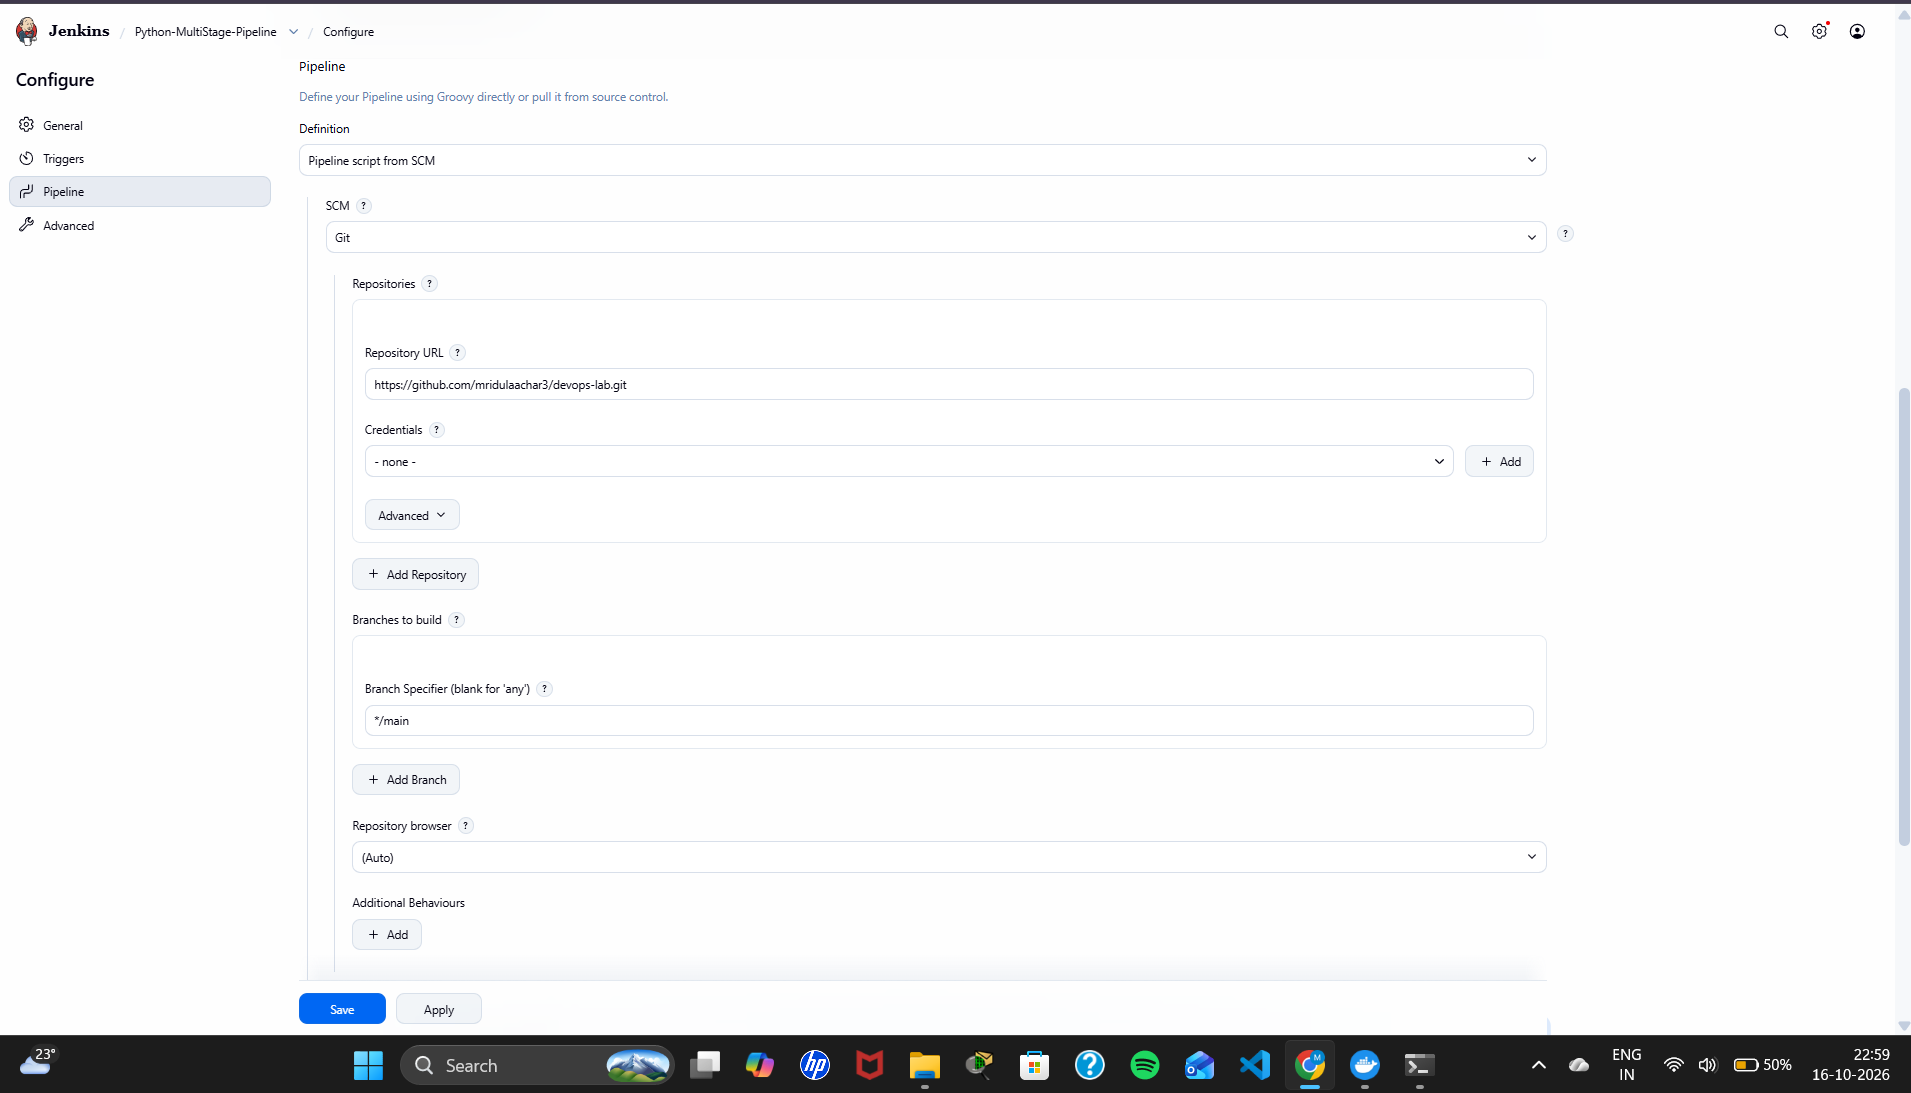
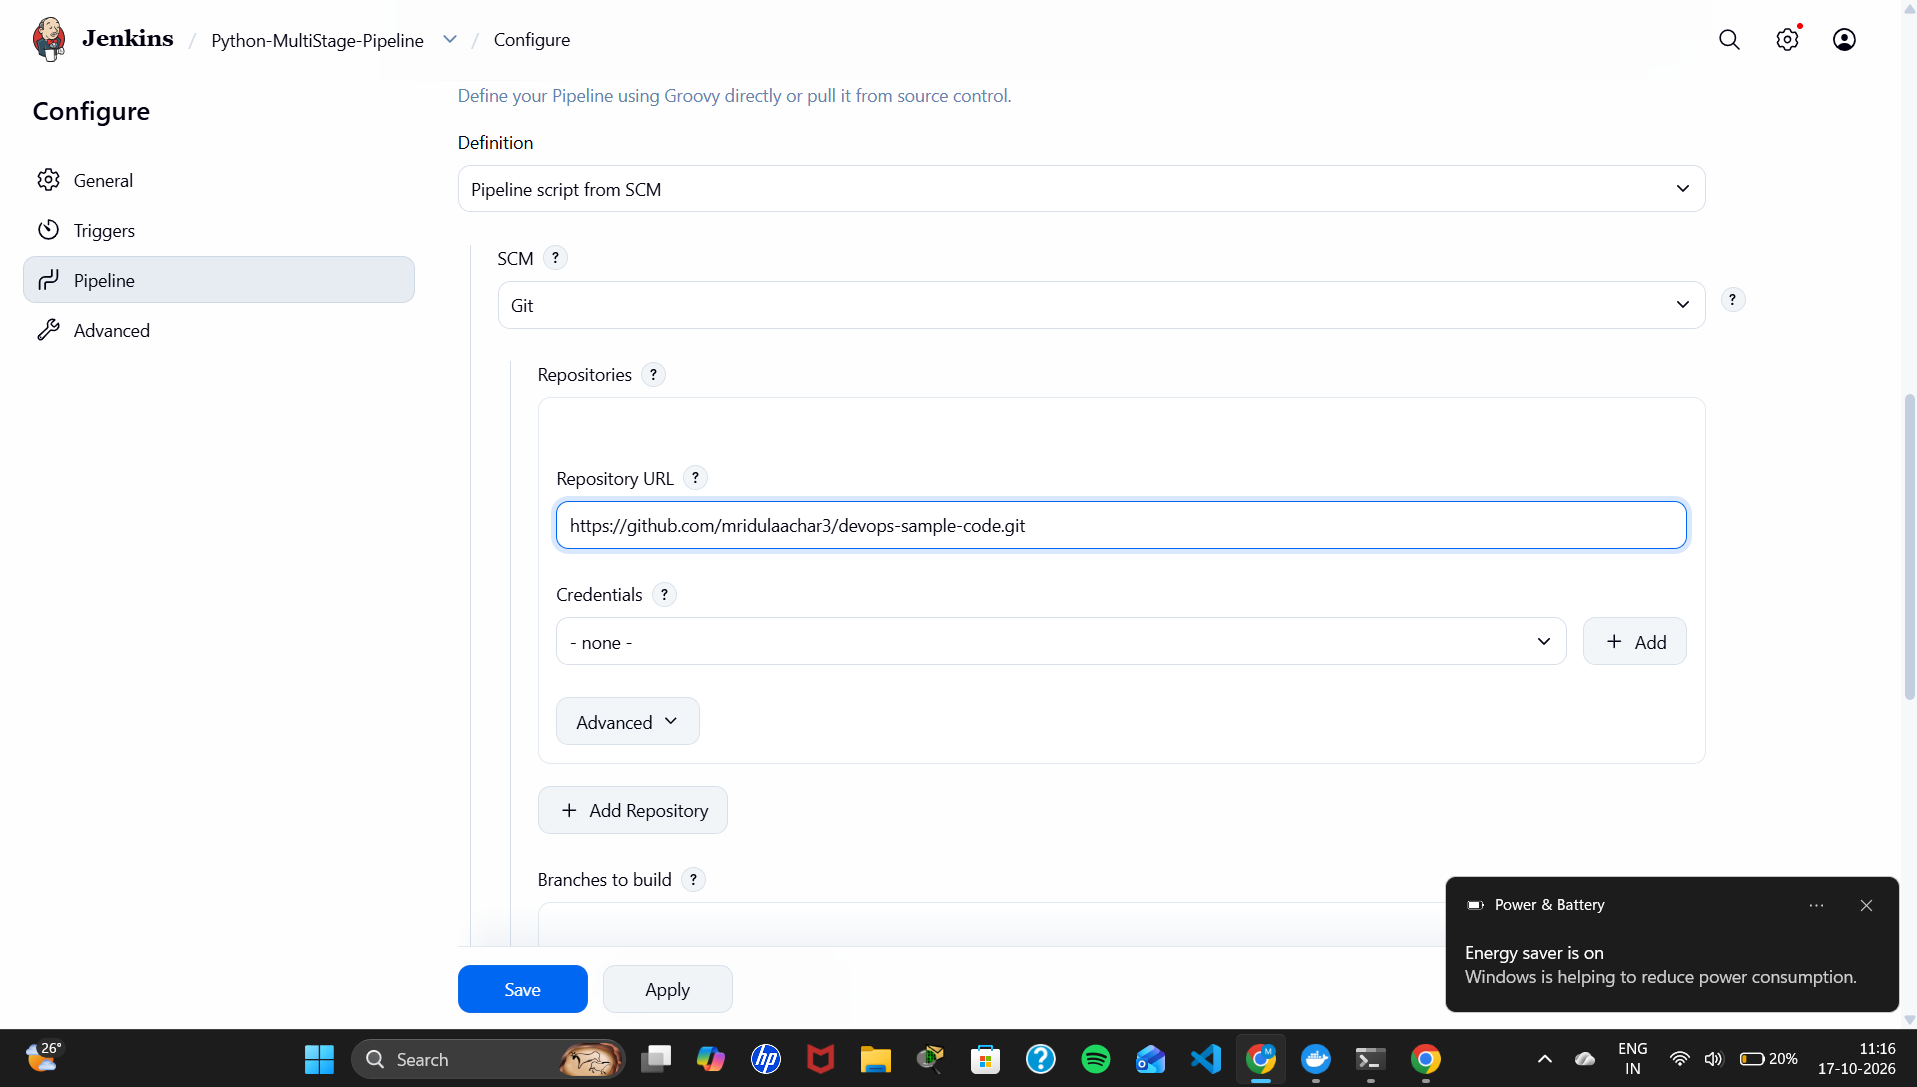
Exercise 9: use devops-sample-code repo as per manual

diff --git a/09-Jenkins-Multi-Stage-Pipeline/README.md b/09-Jenkins-Multi-Stage-Pipeline/README.md
@@ -1,59 +1,77 @@
 # Exercise 9: Jenkins Multi-Stage Pipeline (Deploying a Python Application)
 
 ## Objective
-Create and run a Jenkins Pipeline with multiple stages (Build, Test, Deploy, Run, Test Application) for a Python Flask app, with the pipeline defined as code in a `Jenkinsfile` stored in GitHub.
+Create and run a Jenkins Pipeline with multiple stages (Build, Test, Deploy, Run Application, Test Application) for a Python Flask app, with the pipeline defined as code in a `Jenkinsfile`.
+
+## Repository used by Jenkins
+**https://github.com/mridulaachar3/devops-sample-code** (same repository as Exercise 8, as per the manual)
+
+Copies of all files are kept in this folder for reference.
 
 ## Files
 | File | Purpose |
 |------|---------|
 | `app.py` | Flask app returning "Hello, Jenkins Multi-Stage Pipeline!" |
-| `requirements.txt` | Python dependencies |
+| `requirements.txt` | `flask==2.1.2` |
 | `test_app.py` | Unit test that checks the home page response |
-| `Jenkinsfile` | Declarative pipeline with all the stages |
+| `Jenkinsfile` | Declarative multi-stage pipeline (exactly as in the manual) |
 
 ## Pipeline Stages
 | Stage | What it does |
 |-------|-------------|
-| Checkout SCM | Jenkins clones this GitHub repo |
-| Build | Checks Python and Flask are available |
-| Test | Runs unit tests with `python3 -m unittest discover -s .` |
-| Deploy | Copies `app.py` to a mock deployment folder `python-app-deploy` |
-| Run Application | Starts the app in the background with `nohup` |
-| Test Application | Runs `test_app.py` against the app |
+| Build | Prints the build message |
+| Test | Runs unit tests: `python3 -m unittest discover -s .` |
+| Deploy | Copies `app.py` to `${WORKSPACE}/python-app-deploy` |
+| Run Application | Starts the app in the background with `nohup` and saves its PID |
+| Test Application | Runs `python3 ${WORKSPACE}/test_app.py` |
 | Post Actions | Prints success or failure message |
 
 ## Steps
 
-### 1. Install Python and Flask inside the Jenkins container
-(The manual's Step 8 "Handling build errors": the Jenkins image has no Python.)
-~~~bash
-docker exec -u root jenkins bash -c "sed -i 's|http://|https://|g' /etc/apt/sources.list.d/debian.sources && apt-get update && apt-get install -y python3 python3-flask"
-~~~
+### Step 1-2: Set up Jenkins and create the app files
+Jenkins runs in Docker (see Exercise 7). Files: `app.py`, `requirements.txt`, `test_app.py`.
 
-### 2. Push app, tests and Jenkinsfile to GitHub
+### Step 3: Push the application to GitHub
 ~~~bash
 git add .
-git commit -m "Add Exercise 9 app, tests and Jenkinsfile"
+git commit -m "Initial commit"
 git push
 ~~~
 
-### 3. Create the Pipeline job
-- New Item → `Python-MultiStage-Pipeline` → **Pipeline** → OK
+### Step 4: Create the pipeline job
+New Item → `Python-MultiStage-Pipeline` → **Pipeline** → OK
+
+### Step 5: Add the Jenkinsfile and push it
+~~~bash
+git add Jenkinsfile
+git commit -m "Added Jenkinsfile"
+git push
+~~~
+
+### Step 6: Configure the job
 - Definition: **Pipeline script from SCM**
-- SCM: **Git**, URL `https://github.com/mridulaachar3/devops-lab.git`, no credentials
+- SCM: **Git**, URL `https://github.com/mridulaachar3/devops-sample-code.git`, no credentials
 - Branch Specifier: `*/main`
-- Script Path: `09-Jenkins-Multi-Stage-Pipeline/Jenkinsfile`
+- Script Path: `Jenkinsfile`
 
-### 4. Run the pipeline
-- **Build Now** → all stages pass → Console Output shows `Ran 1 test ... OK` and `Finished: SUCCESS`
+### Step 7: Run the pipeline
+**Build Now** → all stages pass.
 
-## Changes from the Lab Manual
-- `dir('09-Jenkins-Multi-Stage-Pipeline')` is used in the Jenkinsfile because the files live in this folder of the repo.
-- Extra lines (`python3 --version`, `ls`, `cat app.log`) give more proof of each stage in the console output.
+### Step 8: Handling build errors
+The Jenkins image has no Python, so Python and Flask were installed inside the Jenkins container:
+~~~bash
+docker exec -u root jenkins bash -c "apt-get update && apt-get install -y python3 python3-flask"
+~~~
 
 ## Output Screenshots
 
-### Pipeline job configuration (SCM)
+### App files pushed to devops-sample-code
+![Initial Commit](screenshots/5.png)
+
+### Jenkinsfile pushed
+![Jenkinsfile Pushed](screenshots/6.png)
+
+### Pipeline job configuration (repository URL)
 ![Pipeline Config](screenshots/1.png)
 
 ### Script Path
